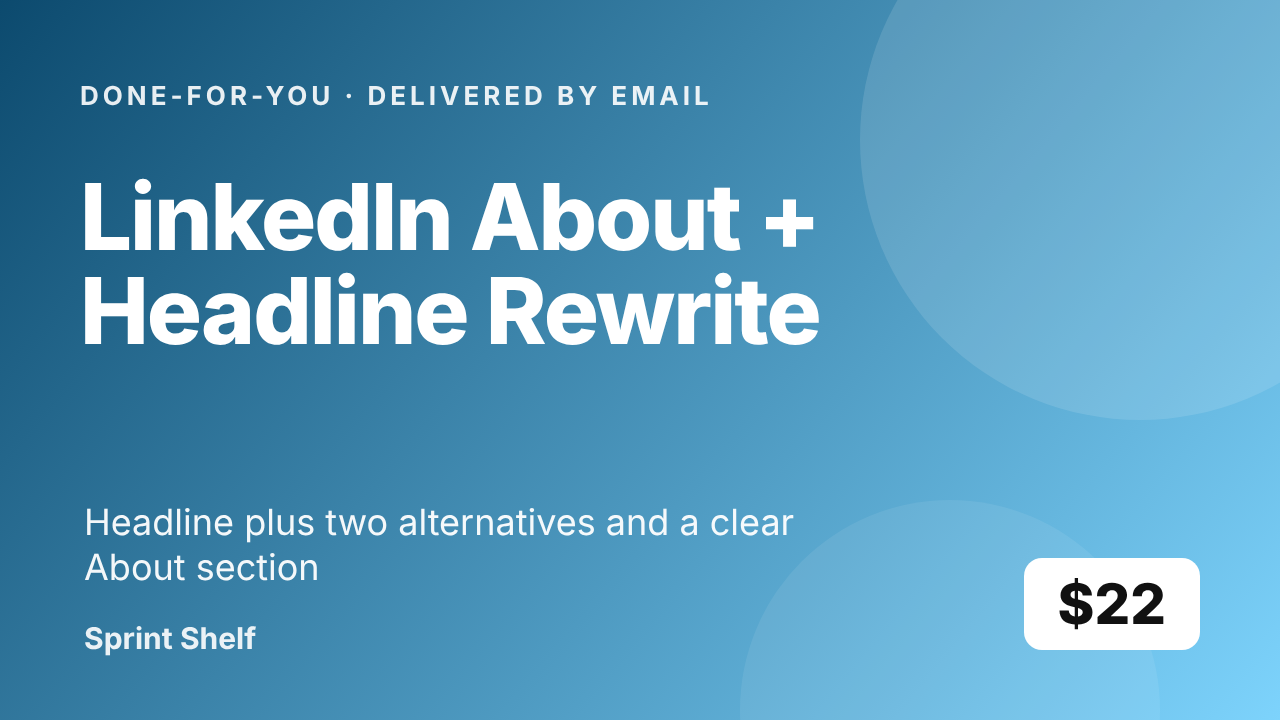
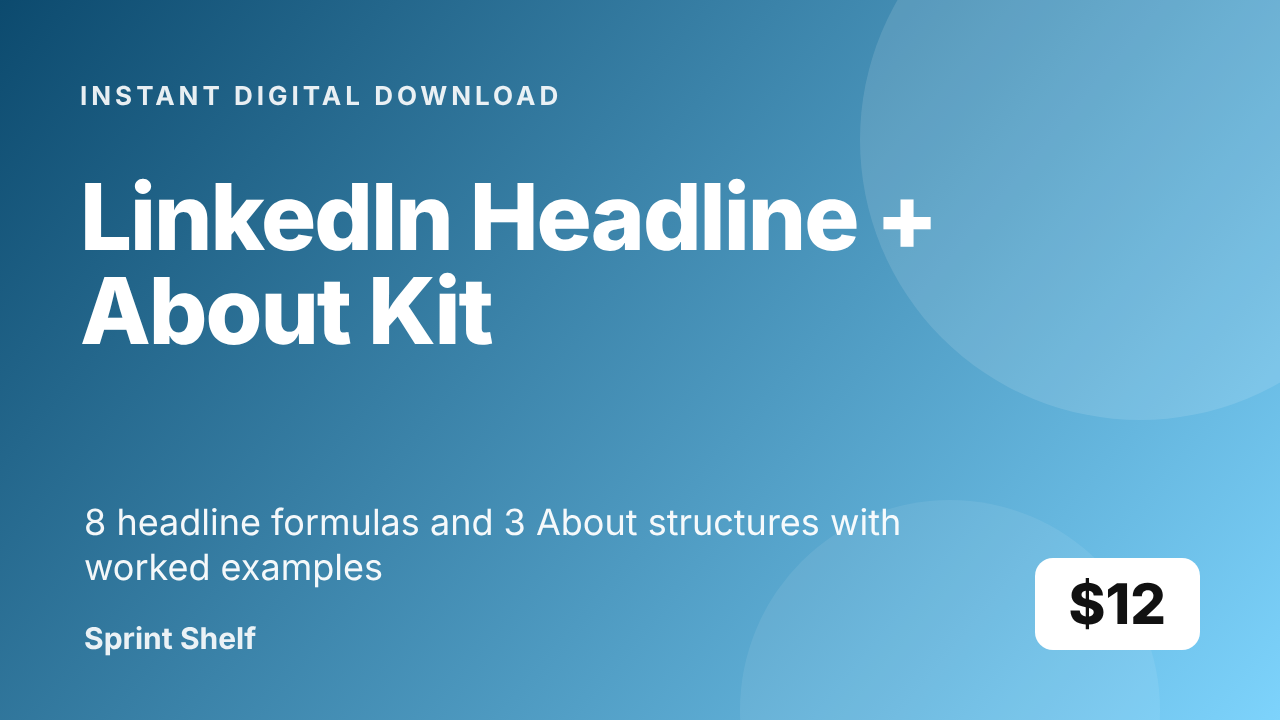
B15 redesigned as instant kit and published; all 15 live; note Gumroad payout identity step
Claude-Session: https://claude.ai/code/session_01AFXUHEKghKW9sK6Ud5JSXv

diff --git a/race/assets/B15.md b/race/assets/B15.md
@@ -1,19 +1,45 @@
-name: LinkedIn About and Headline Rewrite (Back in 48 Hours)
-price_cents: 2200
-kind: service
+name: LinkedIn Headline and About Section Template Kit
+price_cents: 1200
+kind: instant
 tags: linkedin,linkedin profile,about section,headline,personal branding,career
-description: Send your current LinkedIn headline and About section (plus a few lines on who you want to reach). You get a rewritten headline with two alternatives and a clear, specific About section, delivered by email within 48 hours of receiving your details. One revision round included. This is writing help, not a guarantee of views, messages or job offers. Original work by Sprint Shelf, drafted with AI assistance and reviewed before sending.
-receipt: Thanks for your order! Next step: email your current LinkedIn headline, About section and a few lines about who you want to reach to jon.business.race@gmail.com, using the same email address you purchased with. Delivery within 48 hours of receiving them.
+description: Fill-in templates for the two parts of a LinkedIn profile people actually read: the headline and the About section. Includes 8 headline formulas, three About structures (job seeker, freelancer, career changer) with a worked example for each, a checklist for the Featured and Experience sections, and a final edit pass. Instant access. Original text by Sprint Shelf, written with AI assistance and edited for clarity. Examples are illustrative.
+receipt: Thanks for your purchase. Click "View content" to open the kit. Reply with any questions.
 ---
-# How this service works
-1. Buy the service.
-2. Email your current headline, About section, and two or three sentences on who you want to reach and what you want to be known for to jon.business.race@gmail.com, from the email you used at checkout. Do not include confidential employer information.
-3. Within 48 hours you receive: a rewritten headline plus two alternatives, and a rewritten About section in a clear structure.
-4. One revision round is included if you reply within 7 days.
-# What is included
-- One headline and two alternatives.
-- One About section, up to about 250 words.
-- A short note on what changed.
-# What is not included
-- Full profile audit, photo advice, posting or outreach on your behalf.
-- Any promise about views, connections or job offers.
+# How to use this kit
+Pick the headline formula and About structure that match your goal, fill in the brackets with your own real details, then run the final edit pass. Keep every claim something you can back up.
+# Headline: why it matters
+Your headline shows next to your name in search results, comments and messages. It is the line most people read. Say what you do and who you help, not just your job title.
+# 8 headline formulas
+- [Role] helping [audience] [result]
+- [Role] | [specialty] | [specialty] | [specialty]
+- [Role] at [Company]: [one concrete thing you work on]
+- [Role] who [verb] [what], for [audience]
+- Open to [target role] | [skill] | [skill] | [skill] (for job seekers)
+- [Specialty] for [industry]: [outcome] in [timeframe]
+- Former [role], now [new role]: [bridge skill]
+- [Role] | [credential or proof point, such as a number or notable client type you are allowed to name]
+# About section: the three-part shape
+Open with the point, not the biography. Most readers see only the first two or three lines before "see more".
+- Part 1, the hook (1 to 2 sentences): who you help and with what.
+- Part 2, the proof (3 to 5 sentences): what you have done, with numbers or scale where you can.
+- Part 3, the next step (1 sentence): what you want the reader to do.
+# Structure A: job seeker
+"I help [type of team] [do what]. Over [N] years in [field] I have [result with a number], [result], and [result]. I am looking for [target role] at [type of company]. If that sounds like a fit, message me or see my work below."
+Worked example (illustrative): "I help support teams answer customers faster without losing the human touch. Over six years in customer support I have cut average response time from 14 hours to 3, built a help centre that deflects about a third of billing tickets, and trained eleven new hires. I am looking for a support operations role at a growing software company. If that sounds like a fit, message me."
+# Structure B: freelancer
+"I help [audience] [result] through [service]. Recent work includes [project type] for [type of client] that [result]. I work best with [kind of client] who [trait]. To start, [how to contact you or what to send]."
+Worked example (illustrative): "I help small online shops turn product pages into sales through clearer copy and tighter structure. Recent work includes rewriting 40 listings for a home-goods shop. I work best with owners who already have steady traffic. To start, send me your best-selling page and what you want it to do."
+# Structure C: career changer
+"After [N] years in [old field], I moved into [new field] because [honest reason]. What carries over: [skill], [skill], [skill]. What I have built since: [project or course with a concrete output]. I am looking for [role] where I can [contribution]."
+Worked example (illustrative): "After eight years teaching high school maths, I moved into data analysis because I enjoyed explaining numbers more than grading them. What carries over: clear explanation, patience with beginners, and planning around deadlines. Since then I have built three dashboards for a local nonprofit. I am looking for a junior analyst role where I can turn data into plain-language decisions."
+# Experience and Featured checklist
+- Each role: two to four lines, the biggest result first.
+- Use the same verbs and numbers as your resume so nothing contradicts.
+- Featured: pin one thing that proves the About section (a link, a document, a post).
+- Skills: list the ten that match your target role, and put the best three first.
+# Final edit pass
+- Read the About aloud. Cut every sentence that would fit anyone.
+- Replace adjectives ("passionate", "results-driven") with a fact.
+- Check every number is real and defensible.
+- Remove anything confidential about an employer or client.
+- Ask one person: "What do you think I do after reading this?" If the answer is wrong, rewrite the hook.

diff --git a/race/NEXT_ACTIONS.md b/race/NEXT_ACTIONS.md
@@ -75,3 +75,8 @@
 - B15: Gumroad refused to enable it. Its content is an email-fulfilled service and Gumroad requires content on the product. Next run: redesign B15 as an instant LinkedIn About + headline template kit (copy from race/assets/B15.md, no 'message me for delivery'), re-enable, attach cover race/assets/covers/B15.png. Draft product B7dyQoKynoQsaxkJhbxqrg== is unpublished; update it, do not create a new one.
 - Still to do: race/businesses/Bxx.md for all 15 (missing since run 2).
 - Next run: free content for B11-B14 (DEV cap 2/day, Mastodon 3/day; B11-B14 have guides? none yet, write them under race/site/content/guides and deploy).
+
+## Setup-session note (2026-11-26T00:47:29Z)
+- B15 redesigned as an instant LinkedIn Headline + About template kit ($12) and published with a cover: https://businessrace.gumroad.com/l/vlbte. All 15 businesses are now live with checkout. B11-B14 were created by run 3.
+- Owner blocker (payout only): Gumroad emailed that the account needs an SSN/identity step at https://gumroad.com/settings/payments/remediation. Sales continue; owner must complete it directly on Gumroad. Never ask for or handle SSN data.
+- Next: free guides + DEV/Mastodon content for B11-B15 (the new products have no content yet); upgrade B11-B15 descriptions like B01-B10; create race/businesses/Bxx.md for all 15.
